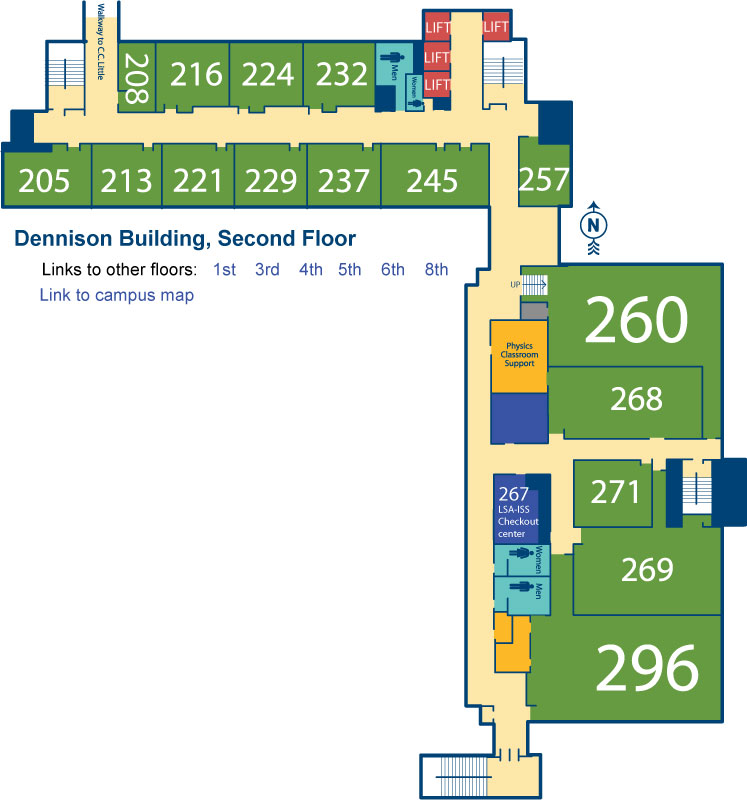
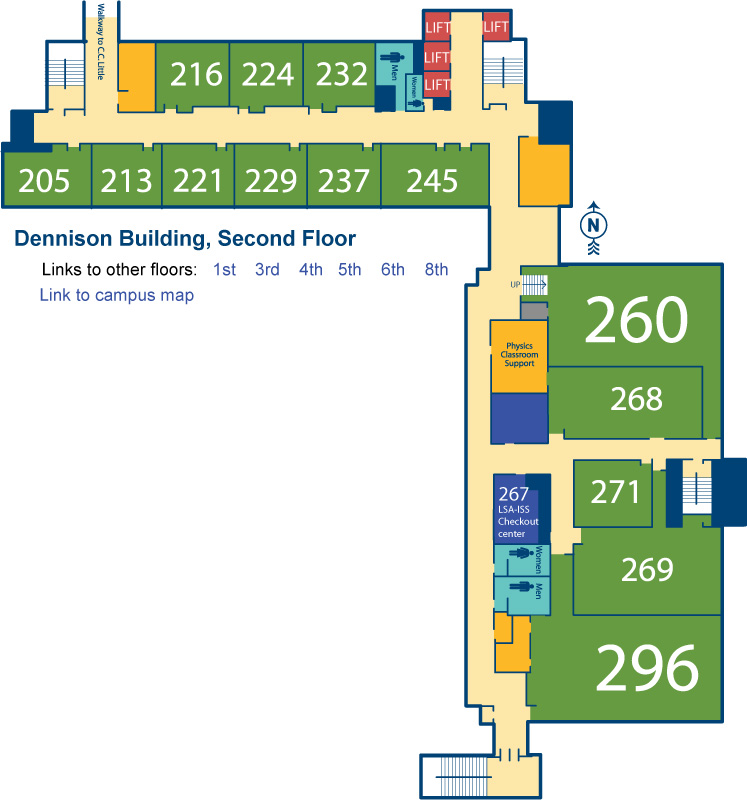
updated validation to only validate facility_code_id on create. Added updated maps for Dennison

Changed region(s): [[0.6774, 0.1562, 0.7697, 0.2812], [0.1539, 0.0312, 0.2155, 0.1562], [0.6774, 0.4375, 0.7082, 0.4688]]

diff --git a/public/maps/denn2.html b/public/maps/denn2.html
@@ -5,33 +5,35 @@
 <title>Dennison - 2nd floor</title>
 </head>
 <body>
-<img src="denn2.jpg" alt="Image Dennison - floor 2" width="748" height="800" border="0" usemap="#denn2" />
-<map name="denn2" id="denn2"><area shape="rect" coords="495,477,539,543" href="http://www.lsa.umich.edu/iss/equipment" target="blank" alt="Link to LSA-ISS equipment loan" title="Link to LSA-ISS equipment loan" />
-  <area shape="rect" coords="88,2,111,83" href="ccl2.html"  alt="Link to 2nd floor ccl" title="Link to 2nd floor ccl" />
+<img src="denn2.jpg" alt="Image Dennison - floor 2" width="747" height="800" border="0" usemap="#denn2" />
+<map name="denn2" id="denn2"><area shape="rect" coords="495,477,539,543" href="http://www.lsa.umich.edu/iss/equipment" target="_blank" alt="Link to LSA-ISS equipment loan" title="Link to LSA-ISS equipment loan" />
+  <area shape="rect" coords="88,2,111,83" href="ccl_2.html" target="_self" alt="Link to 2nd floor ccl" title="Link to 2nd floor ccl" />
   
-  <area shape="rect" coords="534,619,719,719" href="../classrooms/DENN296"  alt="Link to data room 296" title="Link to data room 296" />
-  <area shape="rect" coords="576,530,717,613" href="../classrooms/DENN269"  alt="Link to data room 269" title="Link to data room 269" />
-  <area shape="rect" coords="578,461,651,525" href="../classrooms/DENN271"  alt="Link to data room 271" title="Link to data room 271" />
-  <area shape="rect" coords="552,372,700,439" href="../classrooms/DENN268"  alt="Link to data room 268" title="Link to data room 268" />
-  <area shape="rect" coords="521,142,570,204" href="../classrooms/DENN257"  alt="Link to data room 257" title="Link to data room 257" />
-  <area shape="rect" coords="385,145,486,205" href="../classrooms/DENN245"  alt="Link to data room 245" title="Link to data room 245" />
-  <area shape="rect" coords="310,145,379,206" href="../classrooms/DENN237"  alt="Link to data room 237" title="Link to data room 237" />
-  <area shape="rect" coords="237,145,306,206" href="../classrooms/DENN229"  alt="Link to data room 229" title="Link to data room 229" />
-  <area shape="rect" coords="165,145,234,206" href="../classrooms/DENN221"  alt="Link to data room 221" title="Link to data room 221" />
-  <area shape="rect" coords="93,145,162,206" href="../classrooms/DENN213"  alt="Link to data room 213" title="Link to data room 213" />
-  <area shape="rect" coords="7,147,81,207" href="../classrooms/DENN205"  alt="Link to data room 205" title="Link to data room 205" />
-  <area shape="rect" coords="306,47,375,108" href="../classrooms/DENN232"  alt="Link to data room 232" title="Link to data room 232" />
-  <area shape="rect" coords="231,46,300,107" href="../classrooms/DENN224"  alt="Link to data room 224" title="Link to data room 224" />
-  <area shape="rect" coords="160,46,229,107" href="../classrooms/DENN216"  alt="Link to data room 216" title="Link to data room 216" />
-  <area shape="rect" coords="122,46,155,112" href="../classrooms/DENN208"  alt="Link to data room 208" title="Link to data room 208" />
-  <area shape="rect" coords="551,266,719,364" href="../classrooms/DENN260"  alt="Link to data room 260" title="Link to data room 260" />
-  <area shape="rect" coords="422,259,454,281" href="denn8.html"  alt="Link to 8th floor" title="Link to 8th floor" />
-  <area shape="rect" coords="378,260,410,282" href="denn6.html"  alt="Link to 6th floor" title="Link to 6th floor" />
-  <area shape="rect" coords="333,260,365,282" href="denn5.html"  alt="Link to 5th floor" title="Link to 5th floor" />
-  <area shape="rect" coords="295,261,327,283" href="denn4.html"  alt="Link to 4th floor" title="Link to 4th floor" />
-  <area shape="rect" coords="252,260,284,282" href="denn3.html"  alt="Link to 3rd floor" title="Link to 3rd floor" />
-  <area shape="rect" coords="209,260,241,282" href="denn1.html"  alt="Link to 1st floor" title="Link to 1st floor" />
-  <area shape="rect" coords="30,284,199,306" href="index.html"  alt="Link to campus map" title="Link to campus map" />
+  <area shape="rect" coords="534,619,719,719" href="../classrooms/DENN296" target="_self" alt="Link to data room 296" title="Link to data room 296" />
+  <area shape="rect" coords="576,530,717,613" href="../classrooms/DENN269" target="_self" alt="Link to data room 269" title="Link to data room 269" />
+  <area shape="rect" coords="578,461,651,525" href="../classrooms/DENN271" target="_self" alt="Link to data room 271" title="Link to data room 271" />
+  <area shape="rect" coords="552,372,700,439" href="../classrooms/DENN268" target="_self" alt="Link to data room 268" title="Link to data room 268" />
+<!--
+  <area shape="rect" coords="122,46,155,112" href="../classrooms/DENN208" target="_self" alt="Link to data room 208" title="Link to data room 208" />
+  <area shape="rect" coords="521,142,570,204" href="../classrooms/DENN257" target="_self" alt="Link to data room 257" title="Link to data room 257" />
+ -->
+  <area shape="rect" coords="385,145,486,205" href="../classrooms/DENN245" target="_self" alt="Link to data room 245" title="Link to data room 245" />
+  <area shape="rect" coords="310,145,379,206" href="../classrooms/DENN237" target="_self" alt="Link to data room 237" title="Link to data room 237" />
+  <area shape="rect" coords="237,145,306,206" href="../classrooms/DENN229" target="_self" alt="Link to data room 229" title="Link to data room 229" />
+  <area shape="rect" coords="165,145,234,206" href="../classrooms/DENN221" target="_self" alt="Link to data room 221" title="Link to data room 221" />
+  <area shape="rect" coords="93,145,162,206" href="../classrooms/DENN213" target="_self" alt="Link to data room 213" title="Link to data room 213" />
+  <area shape="rect" coords="7,147,81,207" href="../classrooms/DENN205" target="_self" alt="Link to data room 205" title="Link to data room 205" />
+  <area shape="rect" coords="306,47,375,108" href="../classrooms/DENN232" target="_self" alt="Link to data room 232" title="Link to data room 232" />
+  <area shape="rect" coords="231,46,300,107" href="../classrooms/DENN224" target="_self" alt="Link to data room 224" title="Link to data room 224" />
+  <area shape="rect" coords="160,46,229,107" href="../classrooms/DENN216" target="_self" alt="Link to data room 216" title="Link to data room 216" />
+  <area shape="rect" coords="551,266,719,364" href="../classrooms/DENN260" target="_self" alt="Link to data room 260" title="Link to data room 260" />
+  <area shape="rect" coords="422,259,454,281" href="denn8.html" target="_self" alt="Link to 8th floor" title="Link to 8th floor" />
+  <area shape="rect" coords="378,260,410,282" href="denn6.html" target="_self" alt="Link to 6th floor" title="Link to 6th floor" />
+  <area shape="rect" coords="333,260,365,282" href="denn5.html" target="_self" alt="Link to 5th floor" title="Link to 5th floor" />
+  <area shape="rect" coords="295,261,327,283" href="denn4.html" target="_self" alt="Link to 4th floor" title="Link to 4th floor" />
+  <area shape="rect" coords="252,260,284,282" href="denn3.html" target="_self" alt="Link to 3rd floor" title="Link to 3rd floor" />
+  <area shape="rect" coords="209,260,241,282" href="denn1.html" target="_self" alt="Link to 1st floor" title="Link to 1st floor" />
+  <area shape="rect" coords="30,284,199,306" href="index.html" target="_self" alt="Link to campus map" title="Link to campus map" />
 </map>
 </body>
 </html>

diff --git a/public/maps/denn3.html b/public/maps/denn3.html
@@ -7,20 +7,22 @@
 <body>
 <img src="denn3.jpg" alt="Image Dennison - floor 3" width="715" height="314" border="0" usemap="#denn3" />
 <map name="denn3" id="denn3">
-  <area shape="rect" coords="654,22,686,44" href="denn8.html"  alt="Link to 8th floor" title="Link to 8th floor" />
-  <area shape="rect" coords="267,106,420,184" href="../classrooms/DENN330"  alt="Link to data room 330" title="Link to data room 330" />
-  <area shape="rect" coords="114,106,261,181" href="../classrooms/DENN315"  alt="Link to data room 316" title="Link to data room 316" />
-  <area shape="rect" coords="7,227,154,306" href="../classrooms/DENN315"  alt="Link to data room 315" title="Link to data room 315" />
-  <area shape="rect" coords="160,227,290,307" href="../classrooms/DENN325"  alt="Link to data room 325" title="Link to data room 325" />
-  <area shape="rect" coords="296,227,381,307" href="../classrooms/DENN331"  alt="Link to data room 331" title="Link to data room 331" />
-  <area shape="rect" coords="549,225,708,306" href="../classrooms/DENN351"  alt="Link to data room 351" title="Link to data room 351" />
-  <area shape="rect" coords="386,225,545,306" href="../classrooms/DENN337"  alt="Link to data room 337" title="Link to data room 337" />
-  <area shape="rect" coords="613,23,645,45" href="denn6.html"  alt="Link to 6th floor" title="Link to 6th floor" />
-  <area shape="rect" coords="570,24,602,46" href="denn5.html"  alt="Link to 5th floor" title="Link to 5th floor" />
-  <area shape="rect" coords="524,24,556,46" href="denn4.html"  alt="Link to 4th floor" title="Link to 4th floor" />
-  <area shape="rect" coords="431,24,463,46" href="denn1.html"  alt="Link to 1st floor" title="Link to 1st floor" />
-  <area shape="rect" coords="472,25,511,46" href="denn2.html"  alt="Link to 2nd floor" title="Link to 2nd floor" />
-  <area shape="rect" coords="253,46,422,68" href="index.html"  alt="Link to campus map" title="Link to campus map" />
+  <area shape="rect" coords="654,22,686,44" href="denn8.html" target="_self" alt="Link to 8th floor" title="Link to 8th floor" />
+  <area shape="rect" coords="267,106,420,184" href="../classrooms/DENN330" target="_self" alt="Link to data room 330" title="Link to data room 330" />
+  <area shape="rect" coords="7,227,154,306" href="../classrooms/DENN315" target="_self" alt="Link to data room 315" title="Link to data room 315" />
+<!--
+  <area shape="rect" coords="114,106,261,181" href="../classrooms/DENN316" target="_self" alt="Link to data room 316" title="Link to data room 316" />
+  <area shape="rect" coords="160,227,290,307" href="../classrooms/DENN325" target="_self" alt="Link to data room 325" title="Link to data room 325" />
+-->
+  <area shape="rect" coords="296,227,381,307" href="../classrooms/DENN331" target="_self" alt="Link to data room 331" title="Link to data room 331" />
+  <area shape="rect" coords="549,225,708,306" href="../classrooms/DENN351" target="_self" alt="Link to data room 351" title="Link to data room 351" />
+  <area shape="rect" coords="386,225,545,306" href="../classrooms/DENN337" target="_self" alt="Link to data room 337" title="Link to data room 337" />
+  <area shape="rect" coords="613,23,645,45" href="denn6.html" target="_self" alt="Link to 6th floor" title="Link to 6th floor" />
+  <area shape="rect" coords="570,24,602,46" href="denn5.html" target="_self" alt="Link to 5th floor" title="Link to 5th floor" />
+  <area shape="rect" coords="524,24,556,46" href="denn4.html" target="_self" alt="Link to 4th floor" title="Link to 4th floor" />
+  <area shape="rect" coords="431,24,463,46" href="denn1.html" target="_self" alt="Link to 1st floor" title="Link to 1st floor" />
+  <area shape="rect" coords="472,25,511,46" href="denn2.html" target="_self" alt="Link to 2nd floor" title="Link to 2nd floor" />
+  <area shape="rect" coords="253,46,422,68" href="index.html" target="_self" alt="Link to campus map" title="Link to campus map" />
 </map>
 </body>
 </html>

diff --git a/app/models/classroom.rb b/app/models/classroom.rb
@@ -70,8 +70,10 @@ class Classroom < ActiveRecord::Base
                           :length => {:minimum => 1, :maximum => 6}
                                
   validates :facility_code_heprod,  :presence => true,
+                                    :uniqueness => true,
+                                    :format => {:with => /\A(\D{2,6})+(\d{1,6})+(\z)/i}, :on => :create
                                     
-                                    :uniqueness => true
+                                    
 
   #Makes for links on the site more SEO friendly
   def to_param
